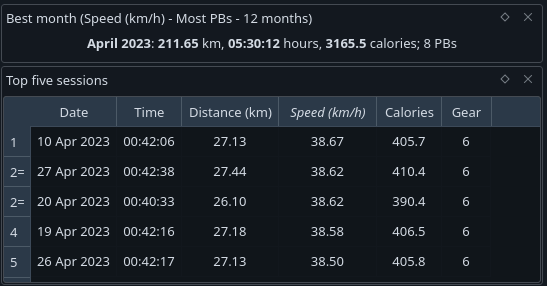
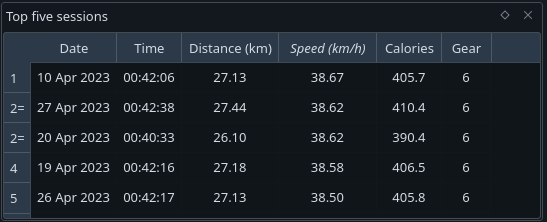
update user guide screenshots

diff --git a/tracks/tracks.py b/tracks/tracks.py
@@ -123,6 +123,8 @@ class Tracks(QMainWindow):
             
             pb = activity_objects.personal_bests
             pb.numSessionsChanged.connect(self._set_pb_sessions_dock_label)
+            
+        self.setWindowTitle(f"Tracks - {name}")
     
     @Slot()
     def save(self, activity=None):

diff --git a/docs/index.md b/docs/index.md
@@ -53,11 +53,7 @@ The star button in the toolbar highlights all points that were personal bests.
 |:--:|
 | *Personal best widgets* |
 
-The two widgets in the top left show personal best info. By default, the top
+The widget in the top left shows personal best info. By default, the top
 five sessions are chosen by speed. To show the top sessions by another measure,
 click on the 'Top sessions' table header. The number of sessions can be changed in
 Edit->Preferences->Data->Top sessions.
-
-The 'Best month' widget by default shows the month with the greatest number of
-PBs in the last 12 months. Again, these parameters can be changed in 
-Edit->Preferences->Data->Best month.
